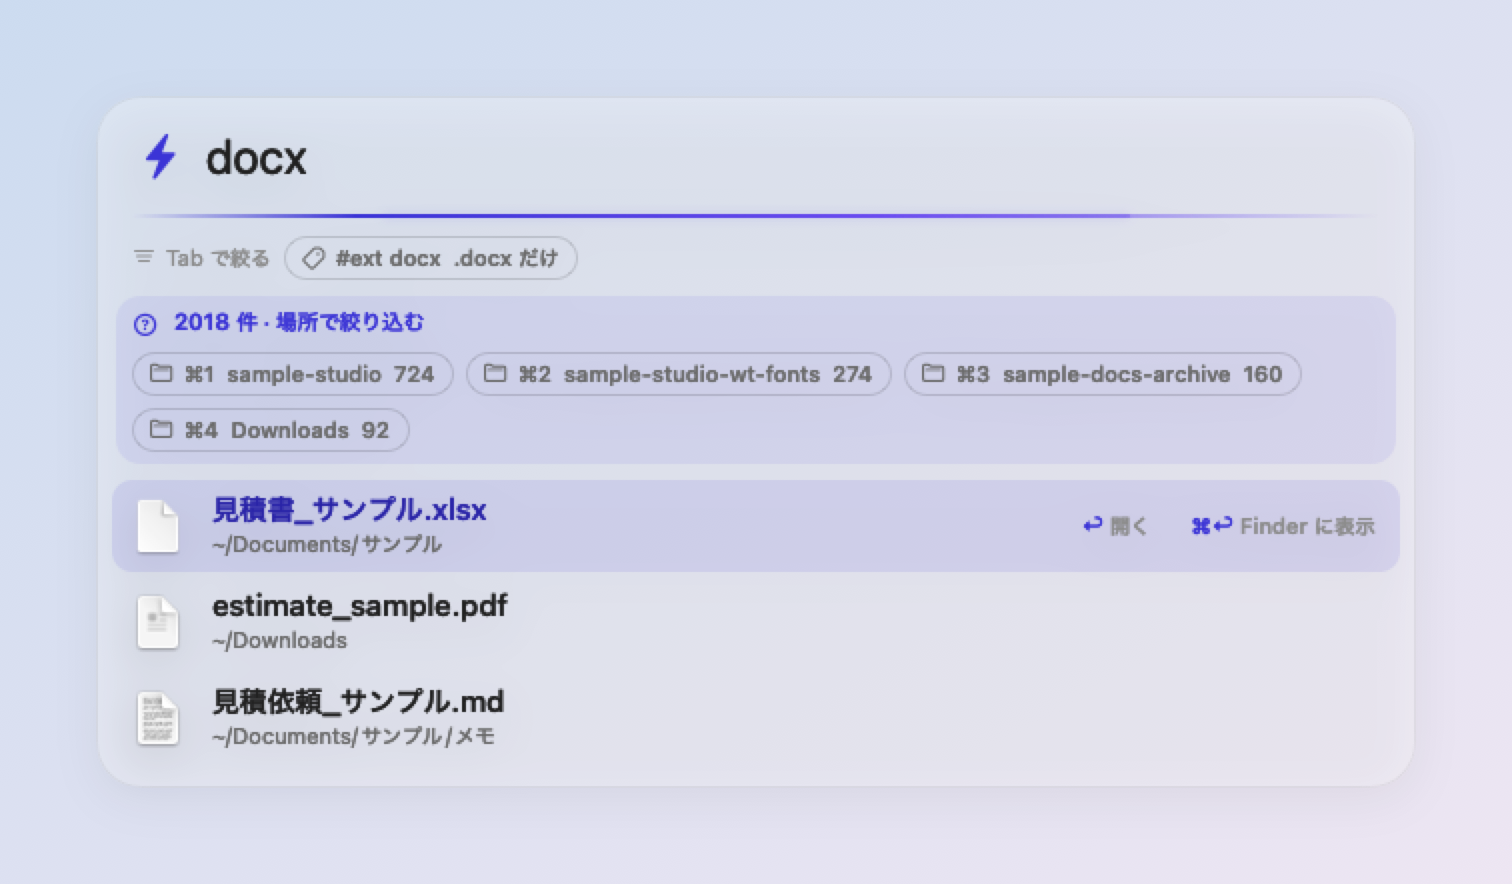
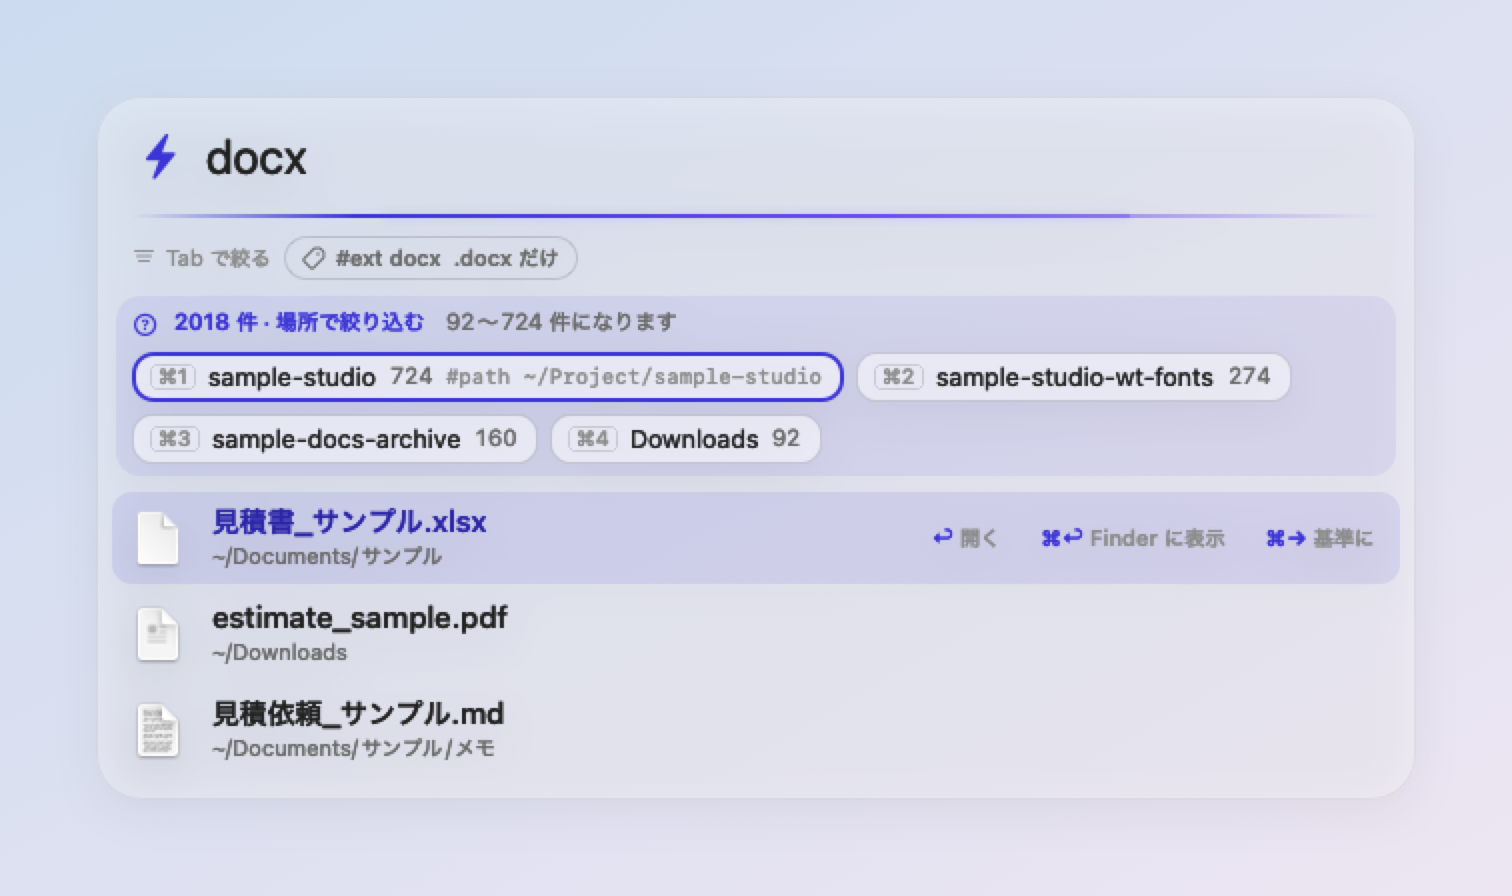
画面案に合わせる: 問いに「3〜41 件になります」、選び先は角丸の四角とキーの枠・半分くらいに減る案を藍の枠とコマンドで強める、棚の件数を右端に、0 件は「この条件に合うファイルはありません。」

diff --git a/app/Sources/Raiden/AskBar.swift b/app/Sources/Raiden/AskBar.swift
@@ -17,13 +17,26 @@ final class AskBar: NSView {
         head.font = .systemFont(ofSize: 11.5, weight: .semibold)
         head.textColor = PanelStyle.indigo
         head.lineBreakMode = .byTruncatingTail
+        // 選ぶと何件になるか（「3〜41 件になります」）を薄い字で添える
+        let counts = split.options.filter { !$0.replaces && $0.count >= 0 }.map(\.count)
+        if split.total > 0, let lo = counts.min(), let hi = counts.max() {
+            let a = NSMutableAttributedString(string: head.stringValue, attributes: [.font: head.font!, .foregroundColor: PanelStyle.indigo])
+            let range = lo == hi ? FilterCompletion.countText(lo) : "\(FilterCompletion.countText(lo))〜\(FilterCompletion.countText(hi))"
+            a.append(NSAttributedString(string: "　\(range) 件になります", attributes: [
+                .font: NSFont.systemFont(ofSize: 11.5), .foregroundColor: PanelStyle.subText]))
+            head.attributedStringValue = a
+        }
         let icon = NSImageView(image: symbol("questionmark.circle", size: 11, weight: .semibold) ?? NSImage())
         icon.contentTintColor = PanelStyle.indigo
         var pills: [NSView] = []
+        // 一番効く案（選ぶと半分くらいに減る案。少なすぎず多すぎない）を藍の枠で強め、コマンドを添える（打ち方を覚えられるように）
+        let half = Double(split.total) / 2
+        let hot = split.total > 0 ? split.options.indices.filter { !split.options[$0].replaces && split.options[$0].count > 0 }
+            .min { abs(Double(split.options[$0].count) - half) < abs(Double(split.options[$1].count) - half) } : nil
         for (i, o) in split.options.enumerated() {
             // count が負なら件数を出さない（⌘→ の「基準に探す」）
-            let n = o.count < 0 ? "" : "  " + (o.count >= 1000 && o.replaces ? "1000以上" : FilterCompletion.countText(o.count))
-            let p = ChipBar.pill("⌘\(i + 1)  \(o.label)\(n)", symbol: o.symbol, filled: false)
+            let n = o.count < 0 ? nil : (o.count >= 1000 && o.replaces ? "1000以上" : FilterCompletion.countText(o.count))
+            let p = AskPill(key: "⌘\(i + 1)", label: o.label, count: n, command: i == hot ? o.command : nil, hot: i == hot)
             p.onTap = { onPick(i) }
             p.toolTip = "\(o.command)（⌘\(i + 1)）"
             pills.append(p)
@@ -58,5 +71,67 @@ final class AskBar: NSView {
         let p = NSBezierPath(roundedRect: r, xRadius: 12, yRadius: 12)
         PanelStyle.indigo.withAlphaComponent(0.08).setFill()
         p.fill()
+    }
+}
+
+/// 問いの選び先 1 つ: 角丸の四角に「⌘1」のキーの枠・名前・件数（hot なら藍の枠とコマンド）
+final class AskPill: TapPill {
+    private let hot: Bool
+
+    init(key: String, label: String, count: String?, command: String?, hot: Bool) {
+        self.hot = hot
+        super.init(frame: .zero)
+        let k = NSTextField(labelWithString: key)
+        k.font = .systemFont(ofSize: 10.5, weight: .medium)
+        k.textColor = PanelStyle.faint
+        let kb = NSView()
+        kb.wantsLayer = true
+        kb.layer?.cornerRadius = 4
+        kb.layer?.borderWidth = 1
+        kb.layer?.borderColor = PanelStyle.text.withAlphaComponent(0.15).cgColor
+        k.translatesAutoresizingMaskIntoConstraints = false
+        kb.addSubview(k)
+        NSLayoutConstraint.activate([
+            k.leadingAnchor.constraint(equalTo: kb.leadingAnchor, constant: 4), k.trailingAnchor.constraint(equalTo: kb.trailingAnchor, constant: -4),
+            k.topAnchor.constraint(equalTo: kb.topAnchor, constant: 0), k.bottomAnchor.constraint(equalTo: kb.bottomAnchor, constant: 0),
+        ])
+        let l = NSTextField(labelWithString: label)
+        l.font = .systemFont(ofSize: 12.5)
+        l.textColor = PanelStyle.text
+        l.lineBreakMode = .byTruncatingMiddle
+        l.setContentCompressionResistancePriority(.defaultLow, for: .horizontal)
+        var views: [NSView] = [kb, l]
+        if let count {
+            let c = NSTextField(labelWithString: count)
+            c.font = .monospacedDigitSystemFont(ofSize: 11.5, weight: .regular)
+            c.textColor = PanelStyle.subText
+            views.append(c)
+        }
+        if let command {
+            let c = NSTextField(labelWithString: command)
+            c.font = .monospacedSystemFont(ofSize: 10.5, weight: .regular)
+            c.textColor = PanelStyle.faint
+            views.append(c)
+        }
+        let st = NSStackView(views: views)
+        st.spacing = 6
+        st.alignment = .centerY
+        st.translatesAutoresizingMaskIntoConstraints = false
+        addSubview(st)
+        NSLayoutConstraint.activate([
+            st.leadingAnchor.constraint(equalTo: leadingAnchor, constant: 9), st.trailingAnchor.constraint(equalTo: trailingAnchor, constant: -10),
+            st.topAnchor.constraint(equalTo: topAnchor, constant: 5), st.bottomAnchor.constraint(equalTo: bottomAnchor, constant: -5),
+        ])
+    }
+
+    required init?(coder: NSCoder) { fatalError() }
+
+    override func draw(_ dirtyRect: NSRect) {
+        let p = NSBezierPath(roundedRect: bounds.insetBy(dx: hot ? 1 : 0.5, dy: hot ? 1 : 0.5), xRadius: 10, yRadius: 10)
+        NSColor.white.withAlphaComponent(0.55).setFill()
+        p.fill()
+        (hot ? PanelStyle.indigo : PanelStyle.text.withAlphaComponent(0.12)).setStroke()
+        p.lineWidth = hot ? 2 : 1
+        p.stroke()
     }
 }

diff --git a/app/Sources/Raiden/SearchPanel.swift b/app/Sources/Raiden/SearchPanel.swift
@@ -256,12 +256,13 @@ final class ResultRow: NSView {
 
 /// アイコンと文字の 1 行（節の見出し・「見つかりません」）。選べない
 final class LabelLine: NSView {
-    init(_ text: String, symbol name: String, detail: String? = nil, big: Bool = false) {
+    /// count: 右の端にそろえて出す件数（「12 件」。時期の棚など）。plain: 大きい一文を太字にしない
+    init(_ text: String, symbol name: String, detail: String? = nil, big: Bool = false, count: String? = nil, plain: Bool = false) {
         super.init(frame: .zero)
         let glyph = NSImageView(image: symbol(name, size: big ? 15 : 10, weight: .semibold) ?? NSImage())
         glyph.contentTintColor = big ? PanelStyle.subText : PanelStyle.indigoLabel
         let label = NSTextField(labelWithString: text)
-        label.font = big ? .systemFont(ofSize: 14, weight: .semibold) : .systemFont(ofSize: 11, weight: .semibold)
+        label.font = big ? .systemFont(ofSize: 14, weight: plain ? .regular : .semibold) : .systemFont(ofSize: 11, weight: .semibold)
         label.textColor = big ? PanelStyle.text : PanelStyle.indigoLabel
         var views: [NSView] = [glyph, label]
         let d = NSTextField(labelWithString: detail ?? "")
@@ -282,6 +283,17 @@ final class LabelLine: NSView {
             NSLayoutConstraint.activate([
                 d.leadingAnchor.constraint(equalTo: label.trailingAnchor, constant: 10),
                 d.firstBaselineAnchor.constraint(equalTo: label.firstBaselineAnchor),
+            ])
+        }
+        if let count {
+            let c = NSTextField(labelWithString: count)
+            c.font = .monospacedDigitSystemFont(ofSize: 11, weight: .regular)
+            c.textColor = PanelStyle.faint
+            c.translatesAutoresizingMaskIntoConstraints = false
+            addSubview(c)
+            NSLayoutConstraint.activate([
+                c.trailingAnchor.constraint(equalTo: trailingAnchor, constant: -20),
+                c.firstBaselineAnchor.constraint(equalTo: label.firstBaselineAnchor),
             ])
         }
     }
@@ -445,7 +457,7 @@ final class SearchPanelController: NSObject, NSTextFieldDelegate, NSWindowDelega
     private var lines: [NSView] = []
     private var results: [RowItem] = []
     /// 並べる順の中身（節の見出しか、results の番号）。entries[..<built] まで作った
-    private enum Entry { case header(String, String, String?); case row(Int); case pair(Int, Int?) }
+    private enum Entry { case header(String, String, String?, String?); case row(Int); case pair(Int, Int?) }
     private var entries: [Entry] = []
     private var built = 0
     private var rowAlpha: [CGFloat] = []
@@ -901,8 +913,7 @@ final class SearchPanelController: NSObject, NSTextFieldDelegate, NSWindowDelega
             // 全体が見つからないときは上に大きく出しているので、節の見出しには添えない
             let fadeNote = sec.faded && !notFound ? "見つかりません" : nil
             if showHeaders || fadeNote != nil {
-                let title = filtered ? "\(sec.title)  \(sec.items.count)件" : sec.title
-                entries.append(.header(title, sec.symbol, fadeNote))
+                entries.append(.header(sec.title, sec.symbol, fadeNote, filtered ? "\(sec.items.count) 件" : nil))
                 listH += Self.headerHeight
             }
             // カードは 2 つずつ 1 段に、それ以外（保存した条件・よく使う組み合わせ）は 1 行ずつ
@@ -1007,8 +1018,8 @@ final class SearchPanelController: NSObject, NSTextFieldDelegate, NSWindowDelega
     private func buildRows(upTo index: Int) {
         while built < entries.count && rows.count <= index {
             switch entries[built] {
-            case .header(let title, let sym, let note):
-                let v = LabelLine(title, symbol: sym, detail: note)
+            case .header(let title, let sym, let note, let count):
+                let v = LabelLine(title, symbol: sym, detail: note, count: count)
                 v.translatesAutoresizingMaskIntoConstraints = false
                 stack.addArrangedSubview(v)
                 v.widthAnchor.constraint(equalToConstant: Self.width).isActive = true

diff --git a/app/Sources/Raiden/FilterUI.swift b/app/Sources/Raiden/FilterUI.swift
@@ -499,8 +499,9 @@ final class FilterInput {
             out.append((SuggestBar(suggestions) { [weak self] s in self?.acceptSuggestion(s) }, ChipBar.height))
         }
         if f.isActive && sections.allSatisfy({ $0.items.isEmpty }) {
-            let msg = preparing && f.allowsFiles ? "ファイル準備中…" : "条件に合う物はありません"
-            out.append((LabelLine(msg, symbol: "line.3.horizontal.decrease.circle", big: true), SearchPanelController.messageHeight))
+            let what = f.allowsFiles ? "ファイル" : "アプリ"
+            let msg = preparing && f.allowsFiles ? "ファイル準備中…" : "この条件に合う\(what)はありません。"
+            out.append((LabelLine(msg, symbol: "line.3.horizontal.decrease.circle", big: true, plain: true), SearchPanelController.messageHeight))
         }
         return out
     }
